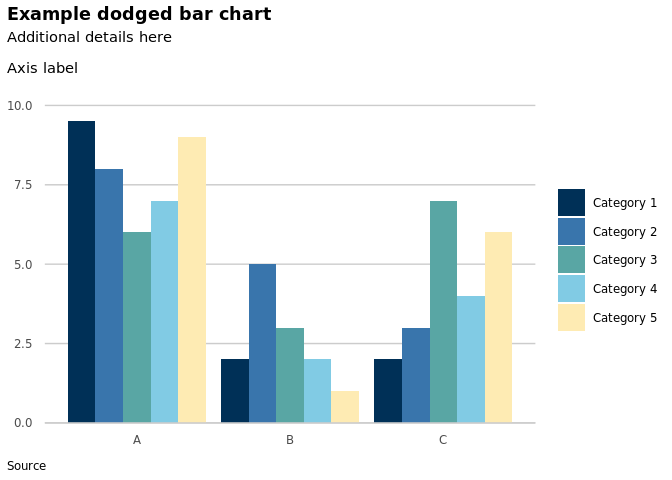
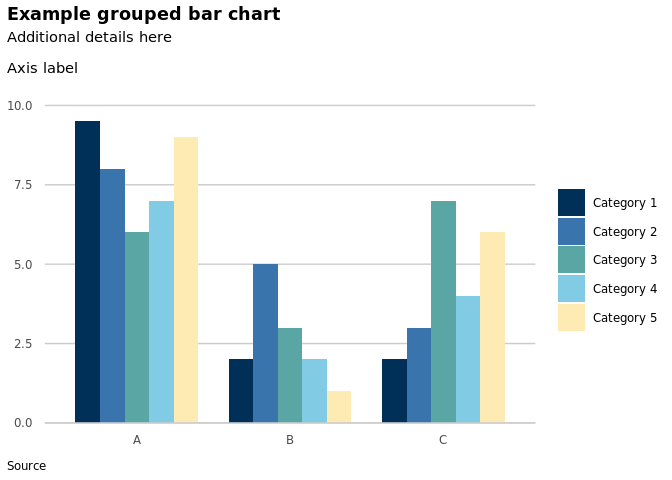
Minor changes to text and charts

diff --git a/README.md b/README.md
@@ -25,7 +25,7 @@ install.packages("devtools")
 devtools::install_github("moj-analytical-services/mojchart")
 ```
 
-## Main functions
+## Overview
 
 The package provides the following custom ggplot2 functions:  
 
@@ -36,7 +36,8 @@ The package provides the following custom ggplot2 functions:
 To access the package colour palettes without using the scale
 functions:  
 
-  - `moj_palette()` returns a colour palette as a vector.  
+  - `moj_palette()` returns a colour palette as a vector of colour hex
+    codes.  
 
 To obtain the hex codes for individual colours:  
 
@@ -47,8 +48,8 @@ To obtain the hex codes for individual colours:
 To display colour palettes:
 
   - `display_palette()` displays a vector of colour hex codes;
-  - `display_scheme()` displays all the colour palettes within a colour
-    scheme.
+  - `display_scheme()` displays all the colour palettes within an
+    mojchart colour scheme.
 
 The function help pages (accessed using `?` or `help()` in RStudio)
 contain full details and examples.
@@ -66,7 +67,7 @@ and [ONS web accessibility
 guidance](https://style.ons.gov.uk/writing-for-the-web/web-accessibility/accessible-charts/).
 To that end, `theme_gss()` suppresses the ggplot2 y axis label; a label
 can instead be included within the ggplot2 subtitle if required. This is
-demonstrated by the second of the example charts [below](#examples).
+demonstrated by [example 2](#example-2-grouped-bar-chart) below.
 
 `theme_gss()` includes parameters to show or hide the x axis label and x
 axis tick marks. Setting the parameter `flipped = TRUE` reverses the x
@@ -171,11 +172,12 @@ Below are two resources to help assess colour blindness accessibility.
 ## Examples
 
 The examples below show the use of `theme_gss()`, `scale_colour_moj()`
-and `scale_fill_moj()`, together with other ggplot2 functions, to format
-complete charts. The data frames for the charts are produced by two
-mojchart functions, `familystarts_reduced()` and `bars()`.
+and `scale_fill_moj()`, together with various ggplot2 functions, to
+create fully formatted charts. The data frames for the charts are
+produced by two mojchart functions, `familystarts_reduced()` and
+`bars()`.
 
-### Example line chart
+### Example 1: line chart
 
   - In this example note that the line thickness has been increased in
     `geom_line()` so that the colours stand out more, making the
@@ -202,12 +204,12 @@ ggplot(familystarts_reduced(6), aes(x = year_qtr, y = count, colour = case_type)
 
 ![](man/figures/README-example1-1.png)<!-- -->
 
-### Example bar chart
+### Example 2: grouped bar chart
 
 ``` r
 ggplot(bars(5), aes(x = col1, y = col3, fill = col2)) +
-  geom_col(position = "dodge") +
-  labs(title = "Example dodged bar chart",
+  geom_col(position = position_dodge2(padding = 0), width = 0.8) +
+  labs(title = "Example grouped bar chart",
        subtitle = "Additional details here\n\nAxis label",
        caption = "Source") +
   scale_y_continuous(expand = expansion(mult = c(0, 0.05))) +
@@ -218,13 +220,13 @@ ggplot(bars(5), aes(x = col1, y = col3, fill = col2)) +
 
 ![](man/figures/README-example2-1.png)<!-- -->
 
-### Example flipped bar chart
+### Example 3: horizontal bar chart
 
 ``` r
 ggplot(bars(3), aes(x = col1, y = col3, fill = col2)) +
-  geom_col(position = "dodge") +
+  geom_col(position = "dodge", width = 0.7) +
   coord_flip() +
-  labs(title = "Example flipped bar chart",
+  labs(title = "Example horizontal bar chart",
        subtitle = "Additional details here\n",
        caption = "Source",
        y = "Axis label") +
